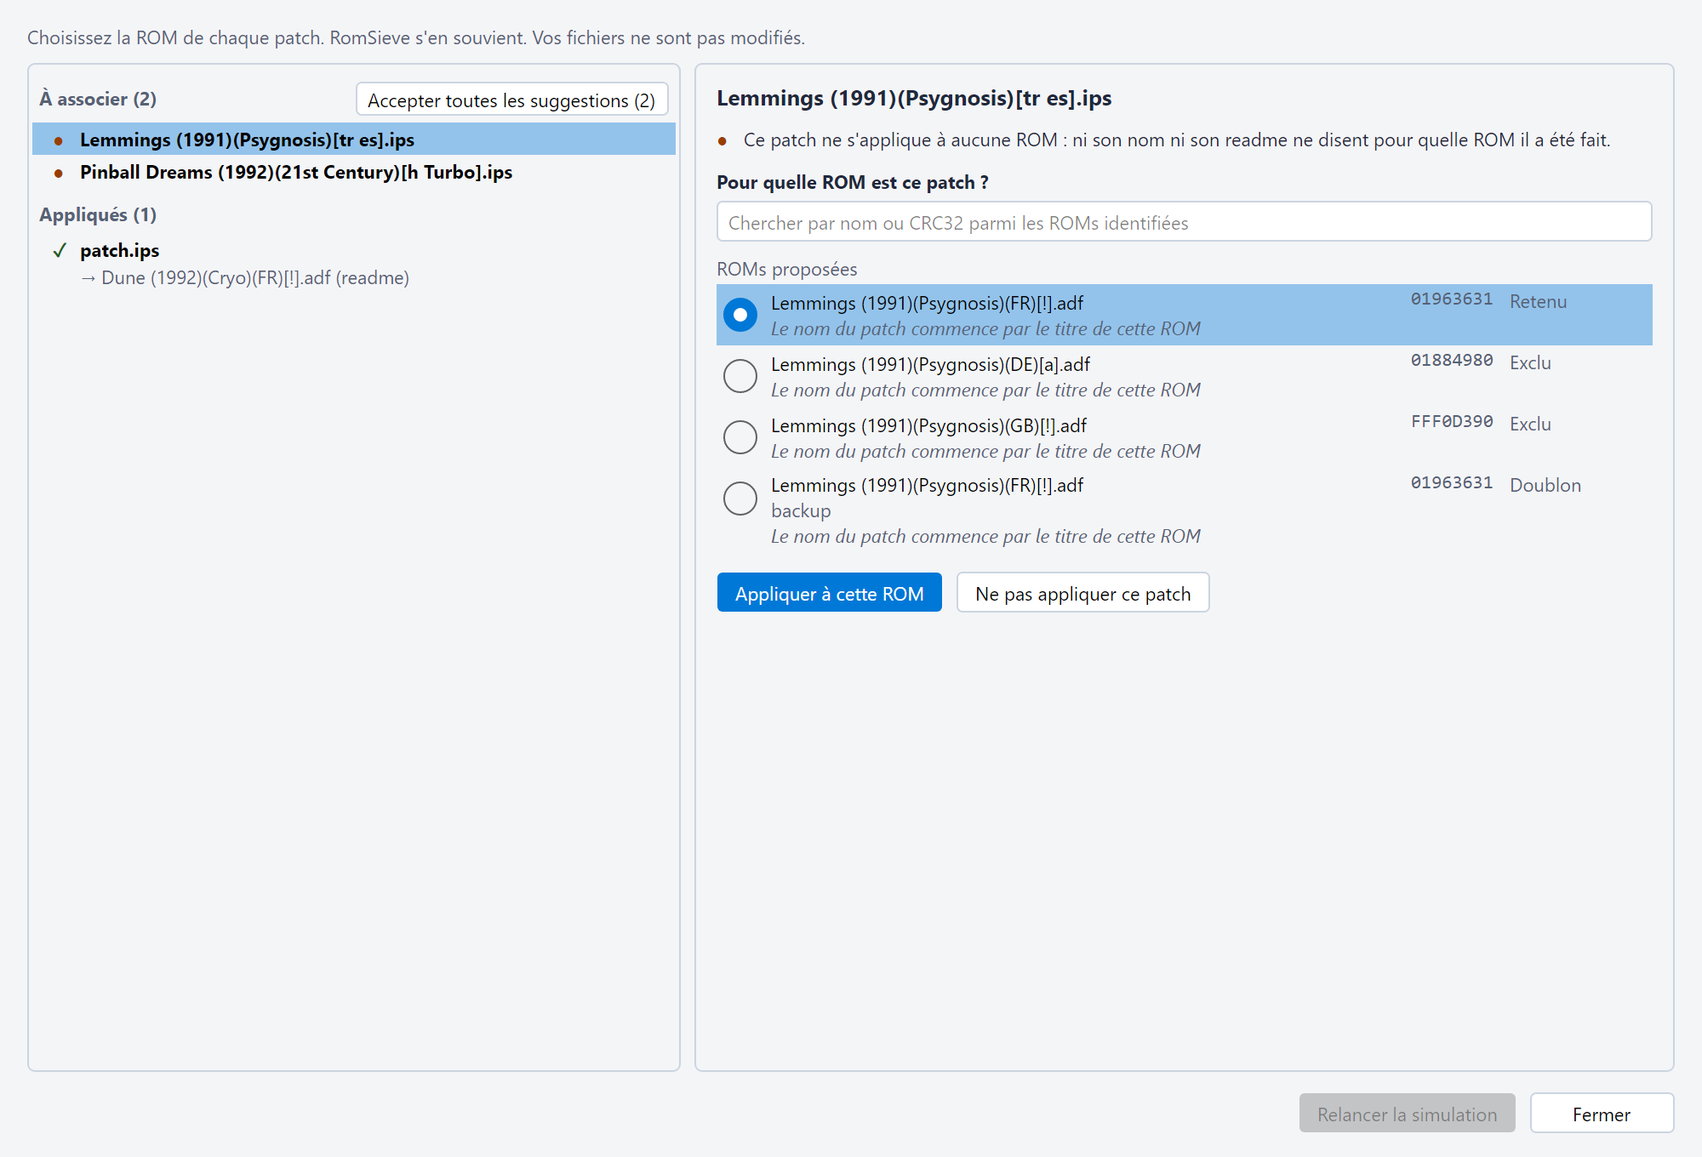
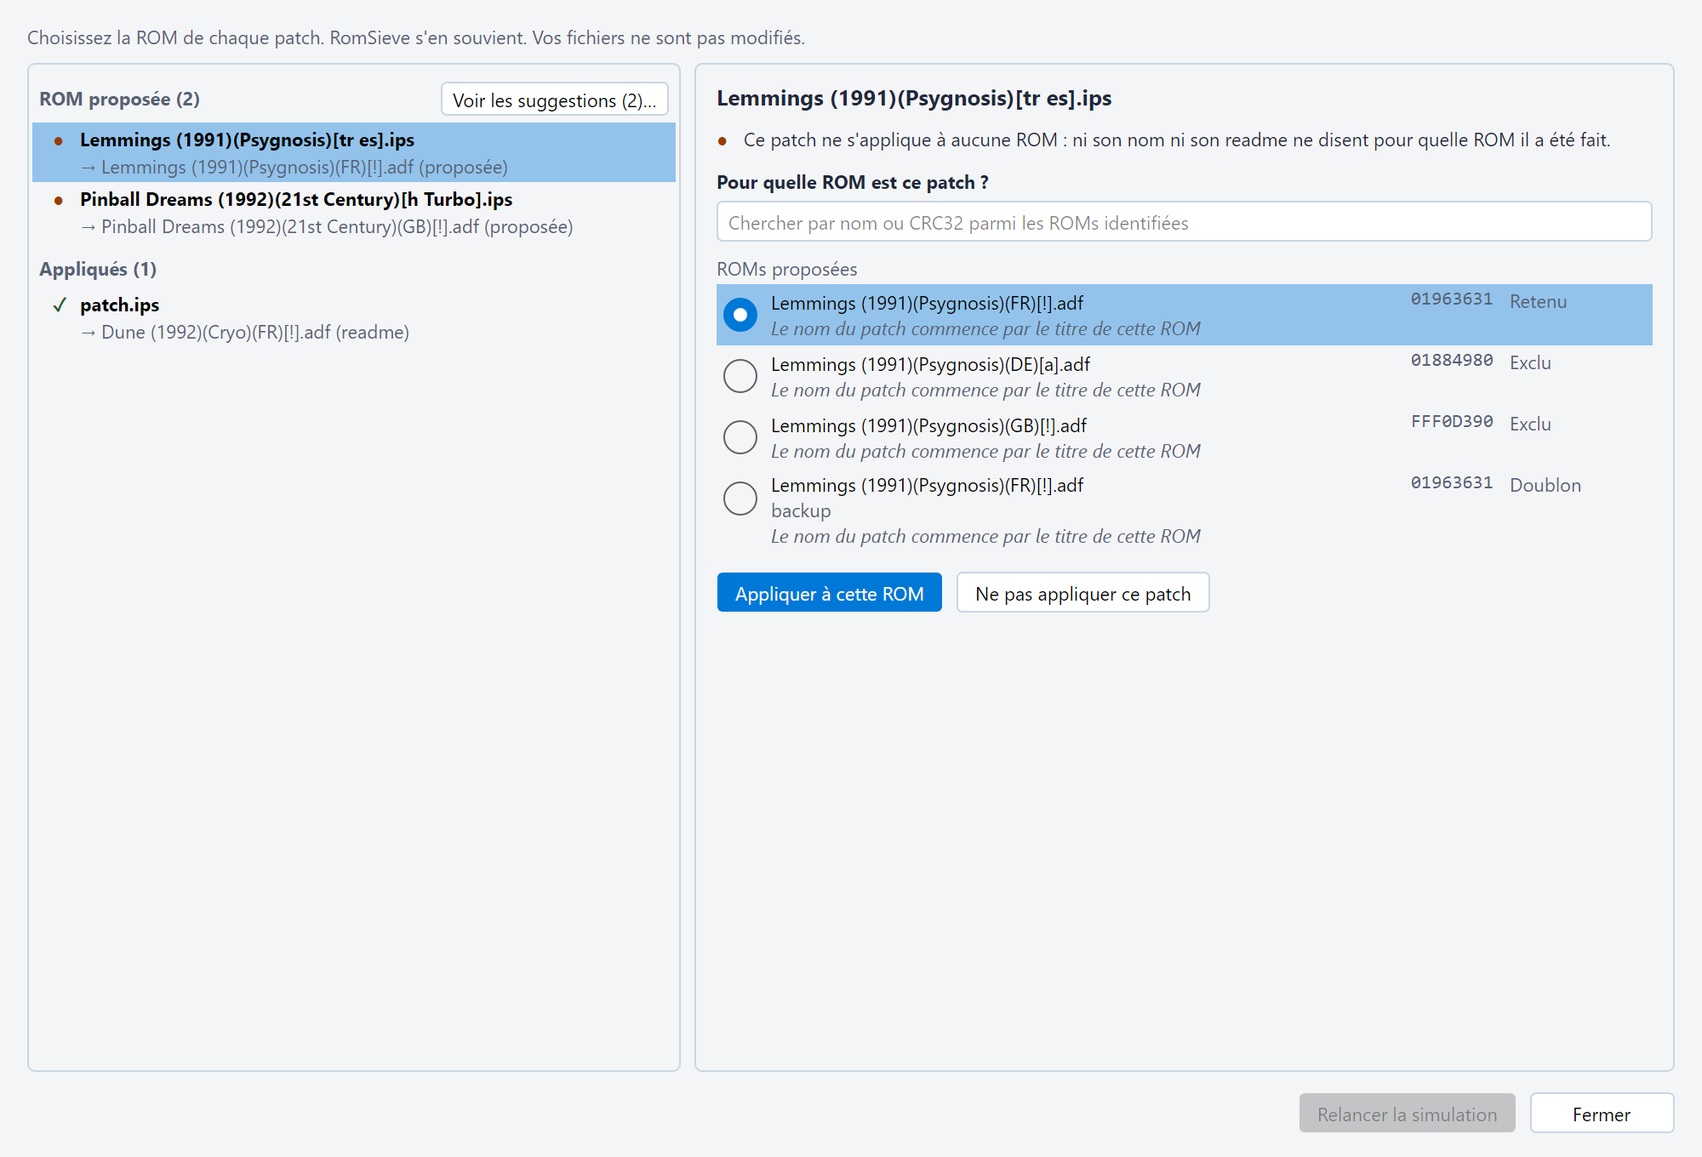
Show the patches a ROM is proposed for in a group of their own, and review their suggestions with their folder and reason before applying them

Changed region(s): [[0.0, 0.1235, 0.403, 0.3088], [0.217, 0.0618, 0.372, 0.0926], [0.031, 0.0618, 0.124, 0.0926]]

diff --git a/src/RomSieve.App/Views/PatchesWindow.xaml b/src/RomSieve.App/Views/PatchesWindow.xaml
@@ -404,7 +404,7 @@
             </StackPanel>
           </ScrollViewer>
 
-          <!-- The summary of « Accept all the suggestions »: each patch with its ROM, nothing checked -->
+          <!-- The summary of « See the suggestions »: each patch with its ROM, nothing checked -->
           <DockPanel x:Name="PanelPatchBatch" IsVisible="{Binding IsBatchMode}">
             <TextBlock DockPanel.Dock="Top" FontWeight="Bold" TextWrapping="Wrap" Text="{Binding I18n[patches.batch_title_accept]}" />
             <StackPanel DockPanel.Dock="Bottom" Orientation="Horizontal" Spacing="8" Margin="0,10,0,0">
@@ -434,6 +434,13 @@
                         <Run Text="→ " />
                         <Run Text="{Binding OriginLabel}" />
                       </TextBlock>
+                      <TextBlock Foreground="{DynamicResource HintForegroundBrush}"
+                                 FontStyle="Italic"
+                                 TextWrapping="NoWrap"
+                                 TextTrimming="CharacterEllipsis"
+                                 Text="{Binding Details}"
+                                 ToolTip.Tip="{Binding Details}"
+                                 IsVisible="{Binding HasDetails}" />
                     </StackPanel>
                   </DockPanel>
                 </DataTemplate>

diff --git a/src/RomSieve.App/ViewModels/PatchesViewModel.cs b/src/RomSieve.App/ViewModels/PatchesViewModel.cs
@@ -10,8 +10,8 @@ using RomSieve.Core.Services;
 namespace RomSieve.App.ViewModels;
 
 /// <summary>
-/// The title of a group in the list of the patches, with its count and, for the patches to match, « Accept all the
-/// suggestions ».
+/// The title of a group in the list of the patches, with its count and, for the patches a ROM is proposed for, « See the
+/// suggestions », which shows them in a summary where nothing is checked.
 /// </summary>
 public sealed class PatchGroupViewModel(PatchesViewModel owner, PatchGroupKind kind) : ObservableObject
 {
@@ -40,8 +40,11 @@ public sealed class PatchGroupViewModel(PatchesViewModel owner, PatchGroupKind k
     }
 }
 
-/// <summary>A patch in the summary of « Accept all the suggestions »: the ROM it would apply to, and its box.</summary>
-public sealed partial class PatchBatchEntryViewModel(PatchesViewModel owner, PatchRowViewModel row, ProcessItem origin, uint crc32)
+/// <summary>
+/// A patch in the summary of « See the suggestions »: the ROM it would apply to, where the patch lies and why the ROM is
+/// proposed, to judge it before checking its box.
+/// </summary>
+public sealed partial class PatchBatchEntryViewModel(PatchesViewModel owner, PatchRowViewModel row, ProcessItem origin, uint crc32, string why)
     : ObservableObject
 {
     public PatchRowViewModel Row { get; } = row;
@@ -53,6 +56,11 @@ public sealed partial class PatchBatchEntryViewModel(PatchesViewModel owner, Pat
     public string Name => Row.Name;
 
     public string OriginLabel { get; } = origin.DisplayName;
+
+    /// <summary>The folder of the patch in the patch folder (or its archive), then why the ROM is proposed, as far as known.</summary>
+    public string Details { get; } = string.Join(" · ", new[] { row.Location, why }.Where(s => s.Length > 0));
+
+    public bool HasDetails => Details.Length > 0;
 
     /// <summary>Whether the patch is to be applied to its ROM: never checked beforehand.</summary>
     [ObservableProperty]
@@ -69,7 +77,7 @@ public sealed partial class PatchBatchEntryViewModel(PatchesViewModel owner, Pat
 /// (<see cref="IPatchLinkService"/>), « Back to the automatic choice » forgets it: none changes a file. « Write the ROM in
 /// the file name » renames an IPS of the disk for other tools (<see cref="IPatchNamingService"/>). « Undo » takes back
 /// the last change of the patch selected. A suggestion is never taken alone: nothing is recorded without a click, and the
-/// summary of « Accept all the suggestions » checks nothing beforehand. « Simulate again » runs a new simulation, which
+/// summary of « See the suggestions » checks nothing beforehand. « Simulate again » runs a new simulation, which
 /// follows the choices, and shows its results in the window, which stays open; closing the window with choices not
 /// simulated yet simulates again too, so that the table always shows what the choices give.
 /// </summary>
@@ -332,6 +340,12 @@ public sealed partial class PatchesViewModel : ViewModelBase
                     row.AddOrigin(origin, forms.Select(f => f.Reason).OfType<LocalizedMessage>().FirstOrDefault() is { } why ? Format(why) : null);
                 }
 
+                // A patch the simulation proposed a ROM for stands in its own group, its ROM named in the list
+                if (unapplied.Suggestions.Count > 0)
+                {
+                    row.Suggest(unapplied.Suggestions[0].Origin.DisplayName);
+                }
+
                 row.SelectedOrigin = row.Origins.FirstOrDefault();
             }
 
@@ -422,7 +436,7 @@ public sealed partial class PatchesViewModel : ViewModelBase
     {
         if (e.PropertyName == nameof(PatchRowViewModel.SelectedForm))
         {
-            _groups[PatchGroupKind.ToMatch].Refresh();
+            _groups[PatchGroupKind.Proposed].Refresh();
         }
     }
 
@@ -456,6 +470,7 @@ public sealed partial class PatchesViewModel : ViewModelBase
         var count = Rows.Count(r => r.Group == kind);
         return kind switch
         {
+            PatchGroupKind.Proposed => Tr("patches.group_proposed", ("count", count)),
             PatchGroupKind.ToMatch => Tr("patches.group_to_match", ("count", count)),
             PatchGroupKind.Applied => Tr("patches.group_applied", ("count", count)),
             PatchGroupKind.Automatic => Tr("patches.group_automatic", ("count", count)),
@@ -808,10 +823,10 @@ public sealed partial class PatchesViewModel : ViewModelBase
     }
 
     // -------------------------------------------------------------------------
-    // « Accept all the suggestions »
+    // « See the suggestions »
     // -------------------------------------------------------------------------
 
-    /// <summary>The summary of « Accept all the suggestions » replaces the detail of the patch selected.</summary>
+    /// <summary>The summary of « See the suggestions » replaces the detail of the patch selected.</summary>
     [ObservableProperty]
     private bool _isBatchMode;
 
@@ -821,21 +836,24 @@ public sealed partial class PatchesViewModel : ViewModelBase
 
     public string ApplyBatchLabel => Tr("patches.btn_batch_apply", ("count", BatchCheckedCount));
 
-    /// <summary>The patches « Accept all the suggestions » would apply: those to match, with the ROM chosen for each.</summary>
-    internal IEnumerable<(PatchRowViewModel Row, ProcessItem Origin, uint Crc32)> BatchEntriesOf(PatchGroupKind kind) =>
-        kind != PatchGroupKind.ToMatch
+    /// <summary>
+    /// The patches « See the suggestions » shows: those a ROM is proposed for, with the ROM and form chosen for each (the
+    /// first proposed, unless the user chose another one) and why it is proposed.
+    /// </summary>
+    internal IEnumerable<(PatchRowViewModel Row, ProcessItem Origin, uint Crc32, string Why)> BatchEntriesOf(PatchGroupKind kind) =>
+        kind != PatchGroupKind.Proposed
             ? []
             : Rows
-                .Where(r => r.State == PatchRowState.ToMatch && r.CanChoose && r.SelectedOrigin is not null && r.SelectedForm is not null)
-                .Select(r => (r, r.SelectedOrigin!.Origin, r.SelectedForm!.Form.Crc32));
+                .Where(r => r.Group == PatchGroupKind.Proposed && r.CanChoose && r.SelectedOrigin is not null && r.SelectedForm is not null)
+                .Select(r => (r, r.SelectedOrigin!.Origin, r.SelectedForm!.Form.Crc32, r.SelectedOrigin.Reason));
 
-    /// <summary>Shows the summary of « Accept all the suggestions », nothing checked.</summary>
+    /// <summary>Shows the summary of « See the suggestions », nothing checked.</summary>
     [RelayCommand(CanExecute = nameof(CanOpenBatch))]
     private async Task OpenBatchAsync(PatchGroupKind kind)
     {
         // The forms of the ROMs proposed are read when the window opens
         await Task.WhenAll(Rows.Select(r => r.FormsLoading));
-        BatchEntries.ReplaceAll(BatchEntriesOf(kind).Select(e => new PatchBatchEntryViewModel(this, e.Row, e.Origin, e.Crc32)));
+        BatchEntries.ReplaceAll(BatchEntriesOf(kind).Select(e => new PatchBatchEntryViewModel(this, e.Row, e.Origin, e.Crc32, e.Why)));
         IsBatchMode = true;
         OnBatchCheckedChanged();
     }

diff --git a/tests/RomSieve.App.Tests/PatchesViewModelTests.cs b/tests/RomSieve.App.Tests/PatchesViewModelTests.cs
@@ -137,7 +137,7 @@ public sealed class PatchesViewModelTests : IDisposable
         var window = await LoadAsync();
 
         ListOf(window).Should().Equal(
-            "À associer (1)", "Game (Japan) (T-Fr).ips",
+            "ROM proposée (1)", "Game (Japan) (T-Fr).ips",
             "Appliqués (3)", "Game (Japan) (T-En).bps", named, "Hack.ips",
             "Écartés (1)", "Aside.bps",
             "Non réparables (1)", "Other.bps");
@@ -148,7 +148,7 @@ public sealed class PatchesViewModelTests : IDisposable
         ips.State.Should().Be(PatchRowState.ToMatch);
         ips.StateMark.Should().Be("●");
         ips.StatusText.Should().Be("Ce patch ne s'applique à aucune ROM : ni son nom ni son readme ne disent pour quelle ROM il a été fait.");
-        ips.ListSummary.Should().BeEmpty();
+        ips.ListSummary.Should().Be("→ Game (Japan).sfc (proposée)", "the list names the ROM proposed");
         ips.Origins.Select(o => o.Label).Should().Equal("Game (Japan).sfc", "Game (USA).sfc");
         ips.Origins.Select(o => o.Reason).Should().Equal(
             ["Le nom du patch commence par le nom de cette ROM", "Le nom du patch commence par le titre de cette ROM"],
@@ -275,7 +275,7 @@ public sealed class PatchesViewModelTests : IDisposable
         row.State.Should().Be(PatchRowState.ToMatch);
         row.StatusText.Should().StartWith("Ce patch ne s'applique à aucune ROM : ni son nom");
         row.CanUndo.Should().BeFalse();
-        ListOf(window).Should().Equal("À associer (1)", row.Name);
+        ListOf(window).Should().Equal("ROM proposée (1)", row.Name);
         window.HasModified.Should().BeFalse();
     }
 
@@ -661,11 +661,11 @@ public sealed class PatchesViewModelTests : IDisposable
     }
 
     // =========================================================================
-    // « Accept all the suggestions »
+    // « See the suggestions »
     // =========================================================================
 
     [Fact]
-    public async Task AcceptingTheSuggestions_ShouldShowASummaryCheckedByNothing_AndRecordOnlyThePatchesChecked()
+    public async Task SeeingTheSuggestions_ShouldShowASummaryCheckedByNothing_AndRecordOnlyThePatchesChecked()
     {
         WriteJapanAndUsa();
         var french = IpsDiff(Japan, Translate(Japan));
@@ -674,11 +674,20 @@ public sealed class PatchesViewModelTests : IDisposable
         _temp.WriteBytes("patches/Game (USA) (Hack).ips", hack);
         _temp.WriteBytes("patches/Super Mario Frères.ips", IpsDiff(Japan, [.. Japan, .. Ascii("Mario")]));
         var window = await LoadAsync();
-        var group = window.ListItems.OfType<PatchGroupViewModel>().Single();
-        group.HasBatch.Should().BeTrue();
-        group.BatchLabel.Should().Be("Accepter toutes les suggestions (2)", "a patch without a ROM chosen is left out");
 
-        await group.BatchCommand.ExecuteAsync(PatchGroupKind.ToMatch);
+        // The patches a ROM is proposed for stand apart, each naming its ROM; the one without is in the next group
+        ListOf(window).Should().Equal(
+            "ROM proposée (2)", "Game (Japan) (T-Fr).ips", "Game (USA) (Hack).ips",
+            "Sans ROM proposée (1)", "Super Mario Frères.ips");
+        Row(window, "Game (Japan) (T-Fr).ips").ListSummary.Should().Be("→ Game (Japan).sfc (proposée)");
+        Row(window, "Super Mario Frères.ips").ListSummary.Should().BeEmpty();
+        var groups = window.ListItems.OfType<PatchGroupViewModel>().ToList();
+        groups.Single(g => g.Kind == PatchGroupKind.ToMatch).HasBatch.Should().BeFalse("no ROM is proposed for its patches");
+        var group = groups.Single(g => g.Kind == PatchGroupKind.Proposed);
+        group.HasBatch.Should().BeTrue();
+        group.BatchLabel.Should().Be("Voir les suggestions (2)…", "the button shows them, it applies nothing");
+
+        await group.BatchCommand.ExecuteAsync(PatchGroupKind.Proposed);
 
         window.IsBatchMode.Should().BeTrue();
         window.BatchEntries.Select(e => (e.Name, e.OriginLabel)).Should().BeEquivalentTo(new[]
@@ -686,6 +695,9 @@ public sealed class PatchesViewModelTests : IDisposable
             ("Game (Japan) (T-Fr).ips", "Game (Japan).sfc"),
             ("Game (USA) (Hack).ips", "Game (USA).sfc")
         });
+        window.BatchEntries.Single(e => e.Name == "Game (Japan) (T-Fr).ips").Details
+            .Should().Be(Row(window, "Game (Japan) (T-Fr).ips").SelectedOrigin!.Reason, "why the ROM is proposed, the patch being at the root")
+            .And.NotBeEmpty();
         window.BatchEntries.Should().OnlyContain(e => !e.IsChecked, "a suggestion is never taken alone");
         window.ApplyBatchCommand.CanExecute(null).Should().BeFalse();
 
@@ -708,7 +720,7 @@ public sealed class PatchesViewModelTests : IDisposable
         var patch = IpsDiff(Japan, Translate(Japan));
         _temp.WriteBytes("patches/Game (Japan) (T-Fr).ips", patch);
         var window = await LoadAsync();
-        await window.OpenBatchCommand.ExecuteAsync(PatchGroupKind.ToMatch);
+        await window.OpenBatchCommand.ExecuteAsync(PatchGroupKind.Proposed);
         window.CheckAllBatchCommand.Execute(null);
 
         window.CloseBatchCommand.Execute(null);

diff --git a/src/RomSieve.App/ViewModels/PatchRowViewModel.cs b/src/RomSieve.App/ViewModels/PatchRowViewModel.cs
@@ -135,6 +135,10 @@ public enum PatchRowState
 /// <summary>The groups of the list of the patches, in their order.</summary>
 public enum PatchGroupKind
 {
+    /// <summary>To match, and the simulation proposed a ROM: its suggestions may be reviewed together.</summary>
+    Proposed,
+
+    /// <summary>To match, without a ROM proposed.</summary>
     ToMatch,
     Applied,
     Automatic,
@@ -229,7 +233,7 @@ public sealed partial class PatchRowViewModel : ObservableObject
 
     public PatchGroupKind Group => State switch
     {
-        PatchRowState.ToMatch => PatchGroupKind.ToMatch,
+        PatchRowState.ToMatch => SuggestedOrigin is null ? PatchGroupKind.ToMatch : PatchGroupKind.Proposed,
         PatchRowState.Applied => PatchGroupKind.Applied,
         PatchRowState.Ignored => PatchGroupKind.Ignored,
         PatchRowState.Automatic => PatchGroupKind.Automatic,
@@ -250,6 +254,20 @@ public sealed partial class PatchRowViewModel : ObservableObject
 
     /// <summary>The CRC32 of the form of <see cref="CurrentOrigin"/> it is applied to.</summary>
     public uint? CurrentCrc32 { get; private set; }
+
+    /// <summary>
+    /// The first ROM the last simulation proposed for it, when it left it to match (<see cref="UnappliedPatch.Suggestions"/>):
+    /// the list names it, and the patch stands in the group of the ROMs proposed. <see langword="null"/> otherwise.
+    /// </summary>
+    public string? SuggestedOrigin { get; private set; }
+
+    /// <summary>Gives the patch the ROM the simulation proposed first for it.</summary>
+    internal void Suggest(string origin)
+    {
+        SuggestedOrigin = origin;
+        OnPropertyChanged(nameof(Group));
+        NotifyState();
+    }
 
     /// <summary>The name of its patched version in the last run, as long as nothing changed it.</summary>
     public string? PatchedName { get; private set; }
@@ -397,7 +415,14 @@ public sealed partial class PatchRowViewModel : ObservableObject
     private string OriginName => CurrentOrigin?.DisplayName ?? string.Empty;
 
     /// <summary>The short line of the list under its name: the ROM it is applied to, and what chose it.</summary>
-    public string ListSummary => State != PatchRowState.Applied ? string.Empty : Source switch
+    public string ListSummary => State switch
+    {
+        PatchRowState.ToMatch when SuggestedOrigin is not null => _owner.Tr("patches.row_proposed", ("origin", SuggestedOrigin)),
+        PatchRowState.Applied => AppliedSummary,
+        _ => string.Empty
+    };
+
+    private string AppliedSummary => Source switch
     {
         PatchCrcSource.Notes => _owner.Tr("patches.row_applied_note", ("origin", OriginName)),
         PatchCrcSource.Link => _owner.Tr("patches.row_applied_link", ("origin", OriginName)),
@@ -449,7 +474,9 @@ public sealed partial class PatchRowViewModel : ObservableObject
     public bool HasLocation => Location.Length > 0;
 
     /// <summary>What a screen reader says of its line in the list: its name, and where it stands.</summary>
-    public string AccessibleName => ListSummary.Length > 0 ? $"{Name} {ListSummary}" : $"{Name}, {StatusText}";
+    public string AccessibleName => State == PatchRowState.Applied && ListSummary.Length > 0 ? $"{Name} {ListSummary}"
+        : ListSummary.Length > 0 ? $"{Name}, {StatusText} {ListSummary}"
+        : $"{Name}, {StatusText}";
 
     /// <summary>Why the last action was refused; empty after a success.</summary>
     [ObservableProperty]

diff --git a/tests/RomSieve.App.Tests/GuiTests.Patches.cs b/tests/RomSieve.App.Tests/GuiTests.Patches.cs
@@ -430,7 +430,7 @@ public sealed partial class GuiTests
                             AssertNotTrimmed(control, $"a title of group or its button ({locale})");
                         }
 
-                        await shown.OpenBatchCommand.ExecuteAsync(PatchGroupKind.ToMatch);
+                        await shown.OpenBatchCommand.ExecuteAsync(PatchGroupKind.Proposed);
                         Settle(patchesWindow);
                         foreach (var name in new[] { "BtnPatchBatchCheckAll", "BtnPatchBatchApply", "BtnPatchBatchBack" })
                         {

diff --git a/docs/fr/patches.md b/docs/fr/patches.md
@@ -302,7 +302,9 @@ doit en faire. Elle s'ouvre après une simulation :
 
 À gauche, les patchs sont groupés par état :
 
-* **À associer** (●) : les IPS qui ne s'appliquent à aucune ROM, et auxquels vous pouvez en choisir une ;
+* **ROM proposée** (●) : les IPS qui ne s'appliquent à aucune ROM, mais pour lesquels la simulation propose une ROM ;
+  chacun la nomme sous son nom (« → *ROM* (proposée) ») ;
+* **Sans ROM proposée** (●) : les autres IPS qui ne s'appliquent à aucune ROM, et auxquels vous pouvez en choisir une ;
 * **Appliqués** (✓) : chacun suivi de sa ROM (« → *ROM* »), avec « (readme) » ou « (votre choix) » quand c'est son
   readme ou vous qui la désignez ;
 * **Choix automatique** (↺) : les patchs dont vous venez d'oublier le choix ; la prochaine simulation dira ce qu'ils
@@ -358,9 +360,10 @@ n'enregistre jamais rien.
 Si une version patchée ne fonctionne pas, parce que le patch a été fait pour une autre ROM, choisissez-lui la bonne de
 la même façon : votre choix l'emporte sur le CRC32 de son nom et sur son readme.
 
-**Accepter toutes les suggestions (*n*)**, sur le titre du groupe **À associer**, montre la ROM choisie pour chaque
-patch : rien n'y est coché d'avance. Cochez ceux à appliquer (ou **Tout cocher**), puis **Appliquer (*n*)** ; **Retour**
-revient au détail sans rien enregistrer.
+**Voir les suggestions (*n*)…**, sur le titre du groupe **ROM proposée**, n'applique rien : il montre pour chaque patch
+la ROM choisie, puis le dossier du patch et la raison de la proposition (« Le nom du patch commence par le titre de cette
+ROM »…), de quoi juger chaque suggestion. Rien n'y est coché d'avance. Cochez ceux à appliquer (ou **Tout cocher**),
+puis **Appliquer (*n*)** ; **Retour** revient au détail sans rien enregistrer.
 
 ## Ne pas appliquer un patch
 

diff --git a/docs/en/patches.md b/docs/en/patches.md
@@ -293,7 +293,9 @@ them. It opens after a simulation:
 
 On the left, the patches are grouped by state:
 
-* **To match** (●): the IPS that apply to no ROM, and that you can choose one for;
+* **ROM proposed** (●): the IPS that apply to no ROM, but for which the simulation proposes a ROM; each names it under
+  its name ("→ *ROM* (proposed)");
+* **No ROM proposed** (●): the other IPS that apply to no ROM, and that you can choose one for;
 * **Applied** (✓): each followed by its ROM ("→ *ROM*"), with "(readme)" or "(your choice)" when its readme or you
   designate it;
 * **Automatic choice** (↺): the patches whose choice you just forgot; the next simulation will tell what they do;
@@ -347,9 +349,10 @@ current ROM of a patch applied is chosen, the button is greyed out. The Enter ke
 If a patched version does not work, because the patch was made for another ROM, choose the right one for it the same
 way: your choice wins over the CRC32 of its name and over its readme.
 
-**Accept all the suggestions (*n*)**, on the title of the **To match** group, shows the ROM chosen for each patch:
-nothing is checked beforehand. Check those to apply (or **Check all**), then **Apply (*n*)**; **Back** returns to the
-detail without saving anything.
+**See the suggestions (*n*)…**, on the title of the **ROM proposed** group, applies nothing: it shows for each patch the
+ROM chosen, then the folder of the patch and why the ROM is proposed ("The name of the patch starts with the title of
+this ROM"…), enough to judge each suggestion. Nothing is checked beforehand. Check those to apply (or **Check all**),
+then **Apply (*n*)**; **Back** returns to the detail without saving anything.
 
 ## Not applying a patch
 
